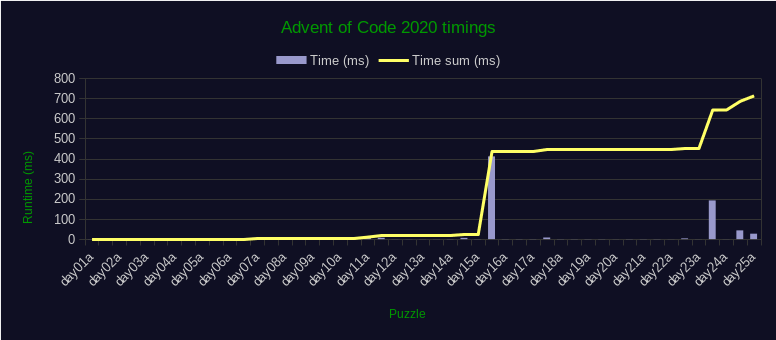
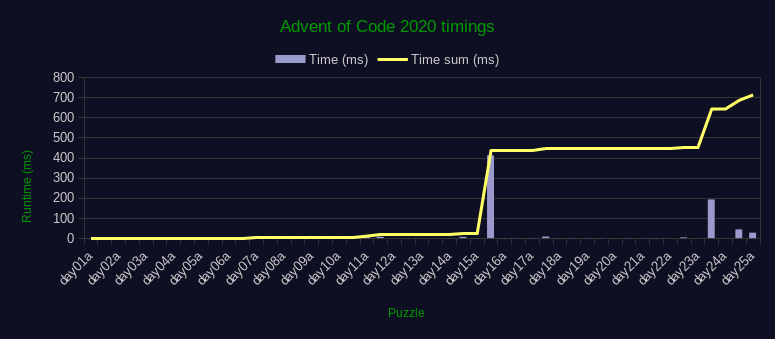
Minor improvements I didn't commit before

diff --git a/day08b/src/main.rs b/day08b/src/main.rs
@@ -1,22 +1,20 @@
+use std::mem;
+
 pub fn main() {
     let mut program: Vec<(&[u8], i32)> = include_bytes!("../input.txt")
         .split(|b| b == &b'\n')
         .map(|ins| (&ins[0..3], atoi::atoi(&ins[4..]).unwrap()))
         .collect();
 
-    let swp_jmp_nop = |ins: &mut (&[u8], _)| match ins {
-        (b"nop", _) => ins.0 = b"jmp",
-        (b"jmp", _) => ins.0 = b"nop",
-        _ => {}
-    };
+    let mut other_op: &[u8] = b"nop";
     for pc in run(&program).0 {
         if program[pc].0 == b"jmp" {
-            swp_jmp_nop(&mut program[pc]);
+            mem::swap(&mut program[pc].0, &mut other_op);
             if let (_, Some(acc)) = run(&program) {
                 println!("{}", acc);
                 break;
             }
-            swp_jmp_nop(&mut program[pc]);
+            mem::swap(&mut program[pc].0, &mut other_op);
         }
     }
 }

diff --git a/day09b/src/main.rs b/day09b/src/main.rs
@@ -6,19 +6,18 @@ pub fn main() {
         .map(|n| n.parse().unwrap())
         .collect();
 
-    let (mut start, mut end, mut tot) = (0, 1, nums[0] + nums[1]);
-
+    let (mut tail, mut head, mut tot) = (0, 1, nums[0] + nums[1]);
     while tot != FIND {
         while tot < FIND {
-            end += 1;
-            tot += nums[end];
+            head += 1;
+            tot += nums[head];
         }
         while tot > FIND {
-            tot -= nums[start];
-            start += 1;
+            tot -= nums[tail];
+            tail += 1;
         }
     }
 
-    let set = &nums[start..=end];
+    let set = &nums[tail..=head];
     println!("{}", set.iter().min().unwrap() + set.iter().max().unwrap());
 }

diff --git a/day06a/src/main.rs b/day06a/src/main.rs
@@ -8,6 +8,6 @@ pub fn main() {
                 .filter(|b| b != &b'\n')
                 .fold(0u32, |map, b| map | 1 << b - b'a')
                 .count_ones())
-            .sum()
+            .sum::<u32>()
     );
 }

diff --git a/README.md b/README.md
@@ -29,7 +29,7 @@ Timings include binary loading, execution, input and output timings.
 | [day 12](https://adventofcode.com/2020/day/12) | [`  0.011ms`](./day12a/src/main.rs) | [`  0.011ms`](./day12b/src/main.rs) |
 | [day 13](https://adventofcode.com/2020/day/13) | [`  0.002ms`](./day13a/src/main.rs) | [`  0.004ms`](./day13b/src/main.rs) |
 | [day 14](https://adventofcode.com/2020/day/14) | [`  0.276ms`](./day14a/src/main.rs) | [`  6.10 ms`](./day14b/src/main.rs) |
-| [day 15](https://adventofcode.com/2020/day/15) | [`  0.227ms`](./day15a/src/main.rs) | [`526    ms`](./day15b/src/main.rs) |
+| [day 15](https://adventofcode.com/2020/day/15) | [`  0.227ms`](./day15a/src/main.rs) | [`511    ms`](./day15b/src/main.rs) |
 | [day 16](https://adventofcode.com/2020/day/16) | [`  0.209ms`](./day16a/src/main.rs) | [`  0.526ms`](./day16b/src/main.rs) |
 | [day 17](https://adventofcode.com/2020/day/17) | [`  0.357ms`](./day17a/src/main.rs) | [`  7.98 ms`](./day17b/src/main.rs) |
 | [day 18](https://adventofcode.com/2020/day/18) | [`  0.246ms`](./day18a/src/main.rs) | [`  0.228ms`](./day18b/src/main.rs) |
@@ -43,7 +43,7 @@ Timings include binary loading, execution, input and output timings.
 
 |              | one-by-one                             | parallel                                   |
 |:-------------|:---------------------------------------|:-------------------------------------------|
-| _everything_ | [`714ms`](./runner/src/bin/runner.rs)  | [`511ms`](./runner/src/bin/runner-par.rs)  |
+| _everything_ | [`699ms`](./runner/src/bin/runner.rs)  | [`511ms`](./runner/src/bin/runner-par.rs)  |
 
 ## Run solutions
 Each Rust project contains a `input.txt` file, holding the puzzle input. Simply
